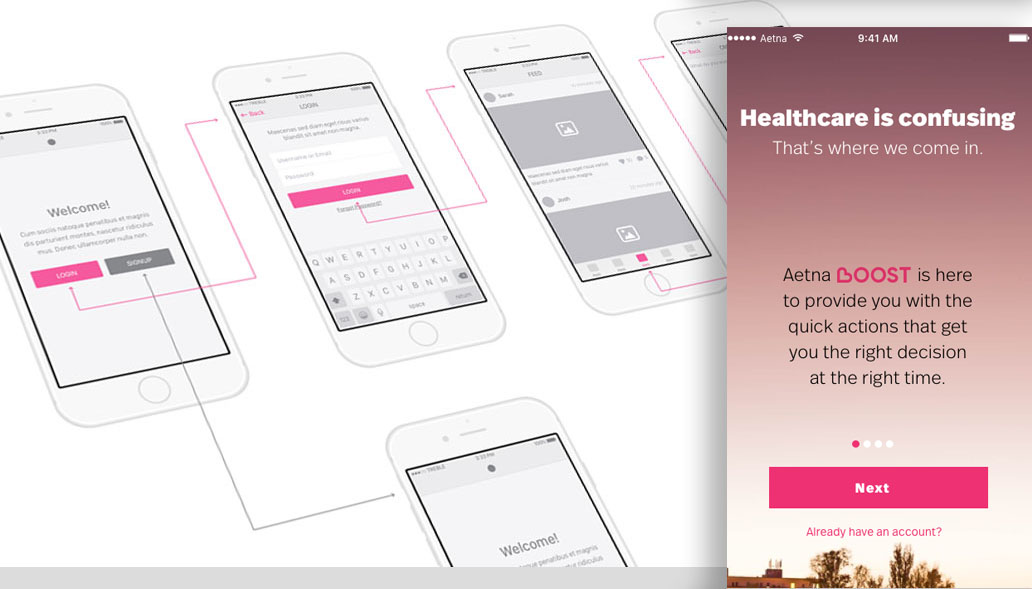
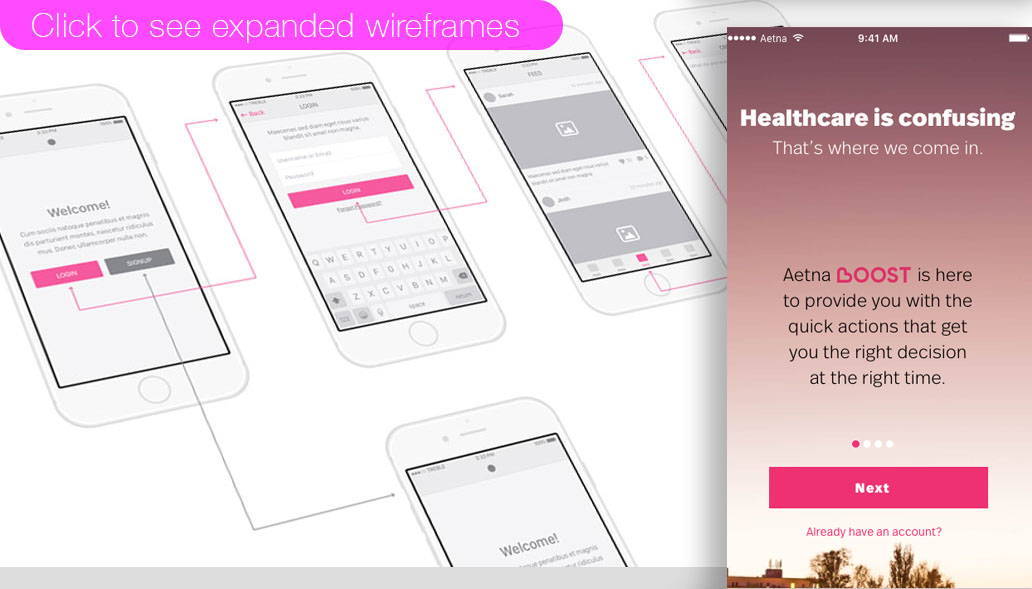
aetna extras

Changed region(s): [[0.0, 0.0, 0.5581, 0.0917]]

diff --git a/aetnaboost.html b/aetnaboost.html
@@ -33,11 +33,16 @@
 	      href="css/style.css">
 	<!-- Modernizr JS -->
 	<script src="js/modernizr-2.6.2.min.js"></script>
-	<!-- FOR IE9 below -->
-	<!--[if lt IE 9]>
-	<script src="js/respond.min.js"></script>
-	<![endif]-->
 
+	<meta charset="UTF-8">
+	<title>Example of Twitter Bootstrap 3 Carousel</title>
+	<link rel="stylesheet"
+	      href="https://netdna.bootstrapcdn.com/bootstrap/3.0.3/css/bootstrap.min.css">
+	<link rel="stylesheet"
+	      href="https://netdna.bootstrapcdn.com/bootstrap/3.0.3/css/bootstrap-theme.min.css">
+	<script type="text/javascript"
+	        src="https://code.jquery.com/jquery.min.js"></script>
+	<script src="https://netdna.bootstrapcdn.com/bootstrap/3.0.3/js/bootstrap.min.js"></script>
 </head>
 
 <body>
@@ -48,56 +53,45 @@
 			<h2>Aetna</h2>
 			<div class="col-md-4 text-left fh5co-heading  animate-box">
 
-				<head>
-					<meta charset="UTF-8">
-					<title>Example of Twitter Bootstrap 3 Carousel</title>
-					<link rel="stylesheet"
-					      href="https://netdna.bootstrapcdn.com/bootstrap/3.0.3/css/bootstrap.min.css">
-					<link rel="stylesheet"
-					      href="https://netdna.bootstrapcdn.com/bootstrap/3.0.3/css/bootstrap-theme.min.css">
-					<script type="text/javascript"
-					        src="https://code.jquery.com/jquery.min.js"></script>
-					<script src="https://netdna.bootstrapcdn.com/bootstrap/3.0.3/js/bootstrap.min.js"></script>
-				</head>
 
-				<body>
-					<div class="bs-flip">
-						<div id="myCarousel"
-						     class="carousel slide"
-						     data-interval="6500"
-						     data-ride="carousel">
-							<!-- Carousel indicators -->
-							<ol class="carousel-indicators">
-								<li data-target="#myCarousel"
-								    data-slide-to="0"
-								    class="active"></li>
-								<li data-target="#myCarousel"
-								    data-slide-to="1"></li>
-								<li data-target="#myCarousel"
-								    data-slide-to="2"></li>
-							</ol>
-							<!-- Carousel items -->
-							<div class="carousel-inner">
-								<div class="active item carousel-fade">
-									<img src="images/image-modals/aetna-slide-1.png">
-									<div class="carousel-caption">
-										<!--empty content-->
-									</div>
+				<div class="bs-flip">
+					<div id="myCarousel"
+					     class="carousel slide"
+					     data-interval="6500"
+					     data-ride="carousel">
+						<!-- Carousel indicators -->
+						<ol class="carousel-indicators">
+							<li data-target="#myCarousel"
+							    data-slide-to="0"
+							    class="active"></li>
+							<li data-target="#myCarousel"
+							    data-slide-to="1"></li>
+							<li data-target="#myCarousel"
+							    data-slide-to="2"></li>
+						</ol>
+						<!-- Carousel items -->
+						<div class="carousel-inner">
+							<div class="active item carousel-fade">
+								<img src="images/image-modals/aetna-slide-1.png">
+								<div class="carousel-caption">
+									<!--empty content-->
 								</div>
-								<div class="item carousel-fade">
-											<img src="images/image-modals/aetna-slide-2.jpg">
-											<div class="carousel-caption">
-												<!--empty content-->
-											</div>
+							</div>
+							<div class="item carousel-fade">
+								<a href="images/image-modals/aetna-wire-expand.png">
+								<img src="images/image-modals/aetna-slide-2.jpg">
+									</a>
 								</div>
-								<div class="item carousel-fade">
+							</div>
+
+							<!-- <div class="item carousel-fade">
 									<h2>Slide 3</h2>
 									<div class="carousel-caption">
 										<h3>Third slide label</h3>
 										<p>Praesent commodo cursus magna, vel scelerisque nisl consectetur.</p>
 									</div>
 								</div>
-							</div>
+							</div> -->
 							<!-- Carousel nav -->
 							<a class="carousel-control left"
 							   href="#myCarousel"
@@ -111,7 +105,7 @@
 				        </a>
 						</div>
 					</div>
-				</body>
+</body>
 
 </html>
 </div>
